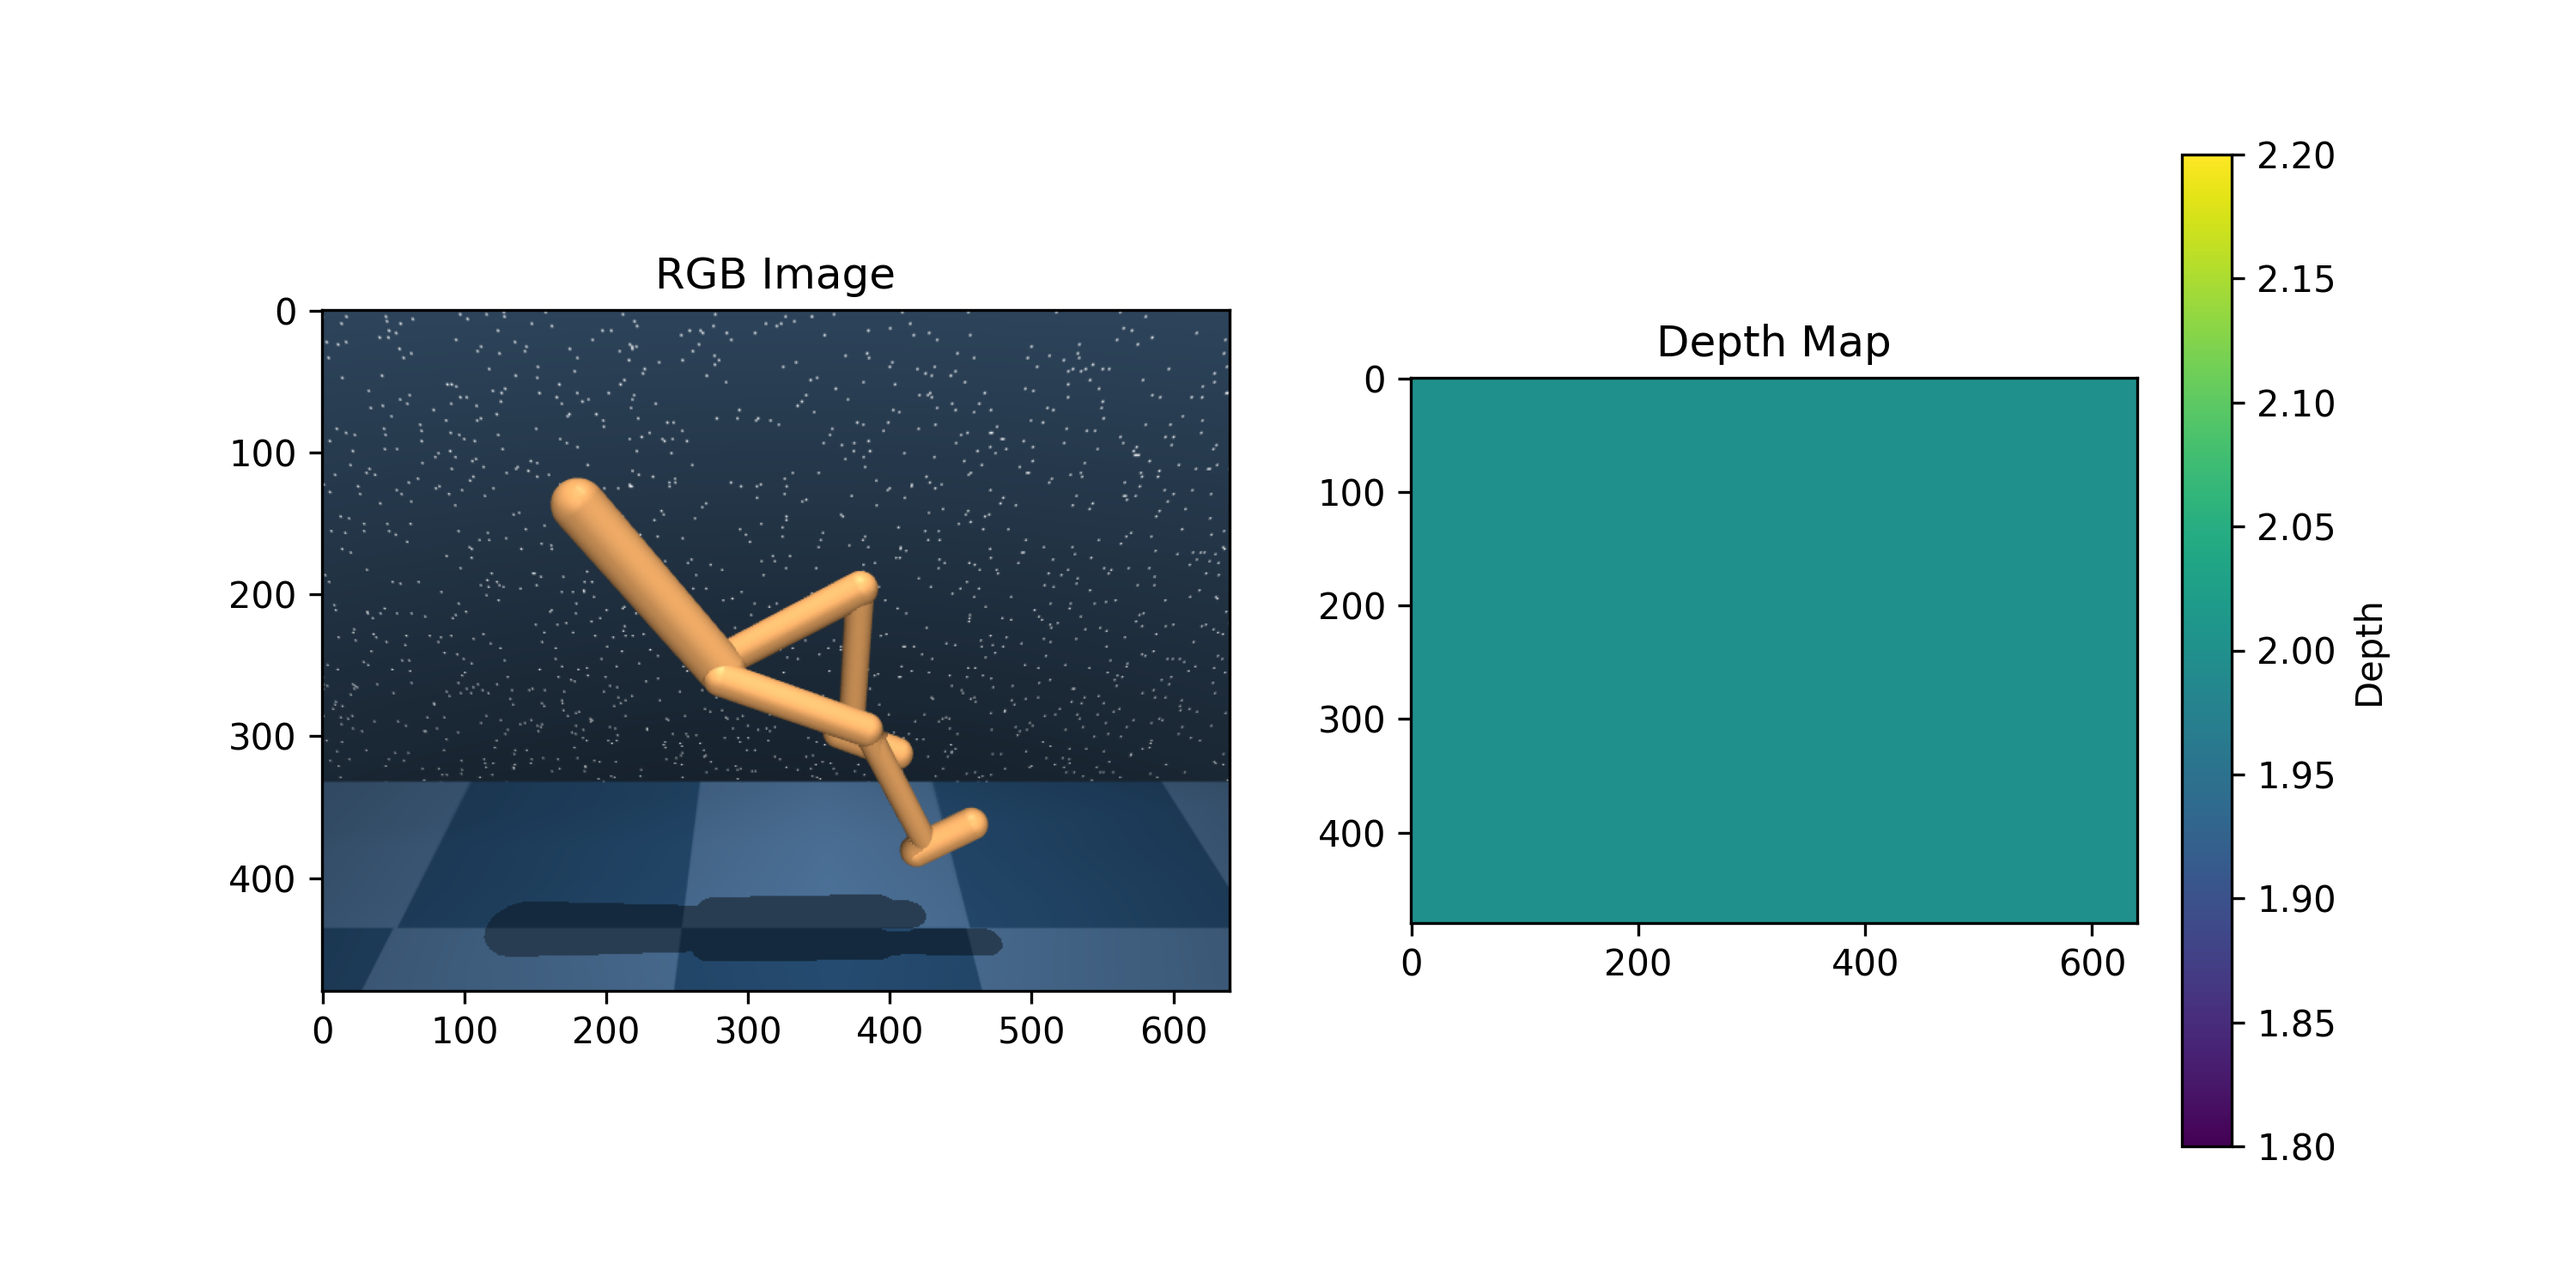
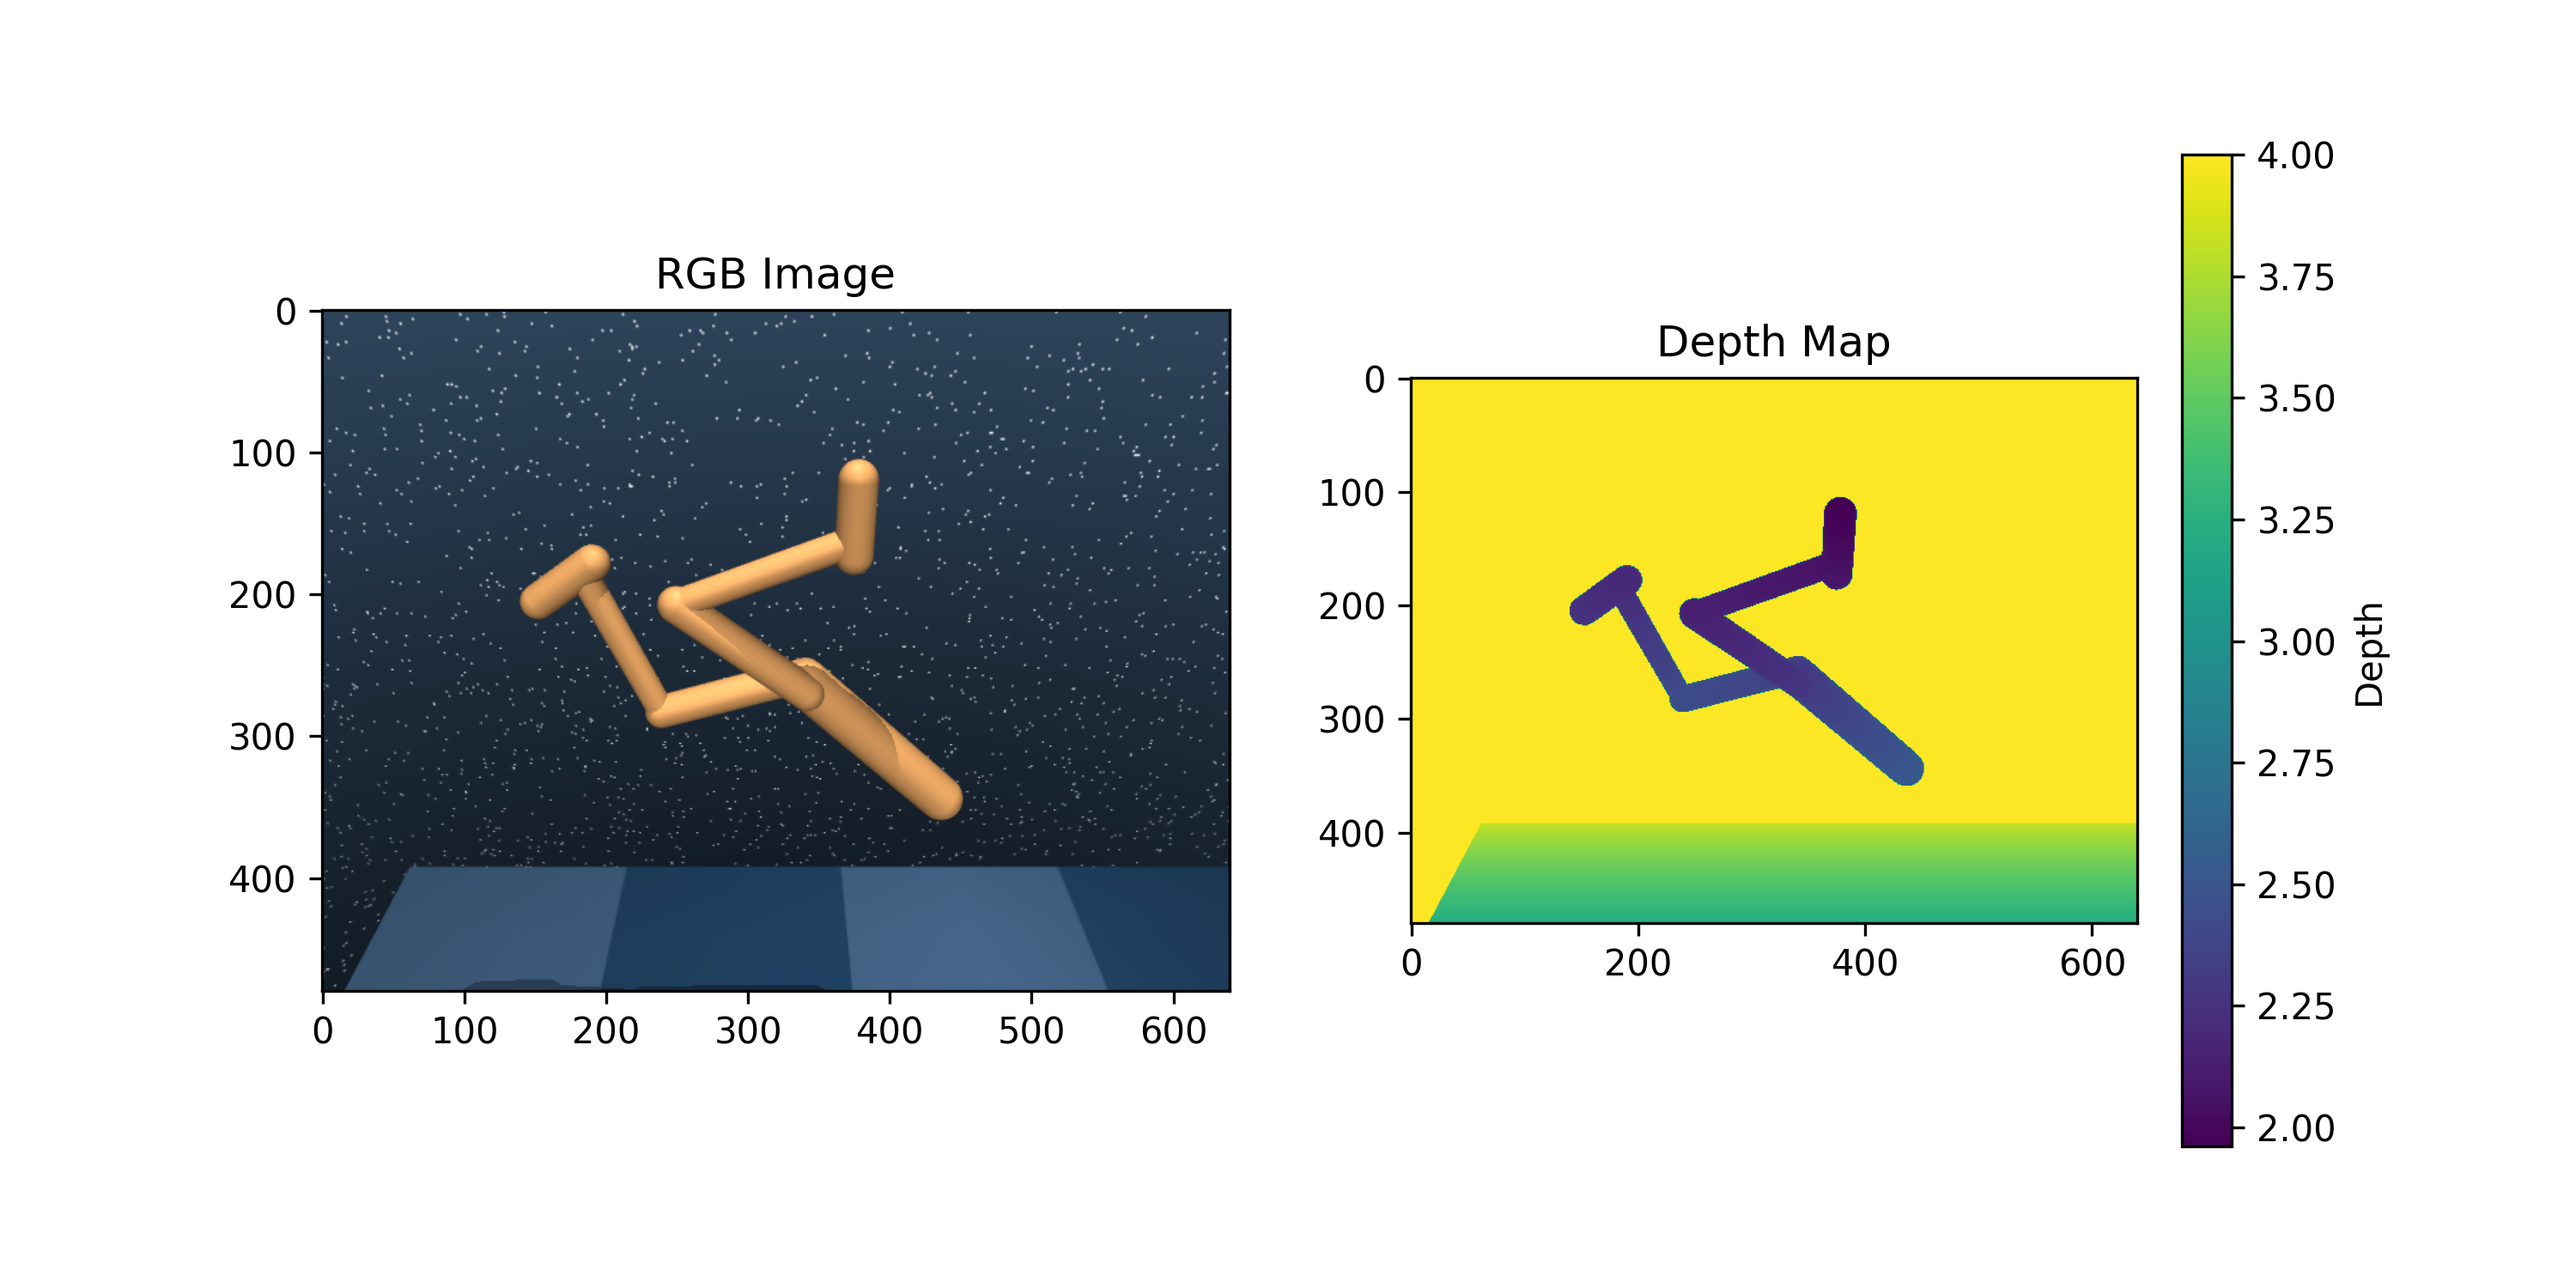
Auto commit

diff --git a/third_test_point_cloud.py b/third_test_point_cloud.py
@@ -18,7 +18,7 @@ print(np.max(depth_map))
 print(np.min(depth_map))
 print(np.mean(depth_map))
 
-min_depth, max_depth = 1, 2
+min_depth, max_depth = 1, 4
 clipped_depth = np.clip(depth_map, min_depth, max_depth)
 #normalized_depth = (clipped_depth - min_depth) / (max_depth - min_depth)
 #depth_map = normalized_depth
